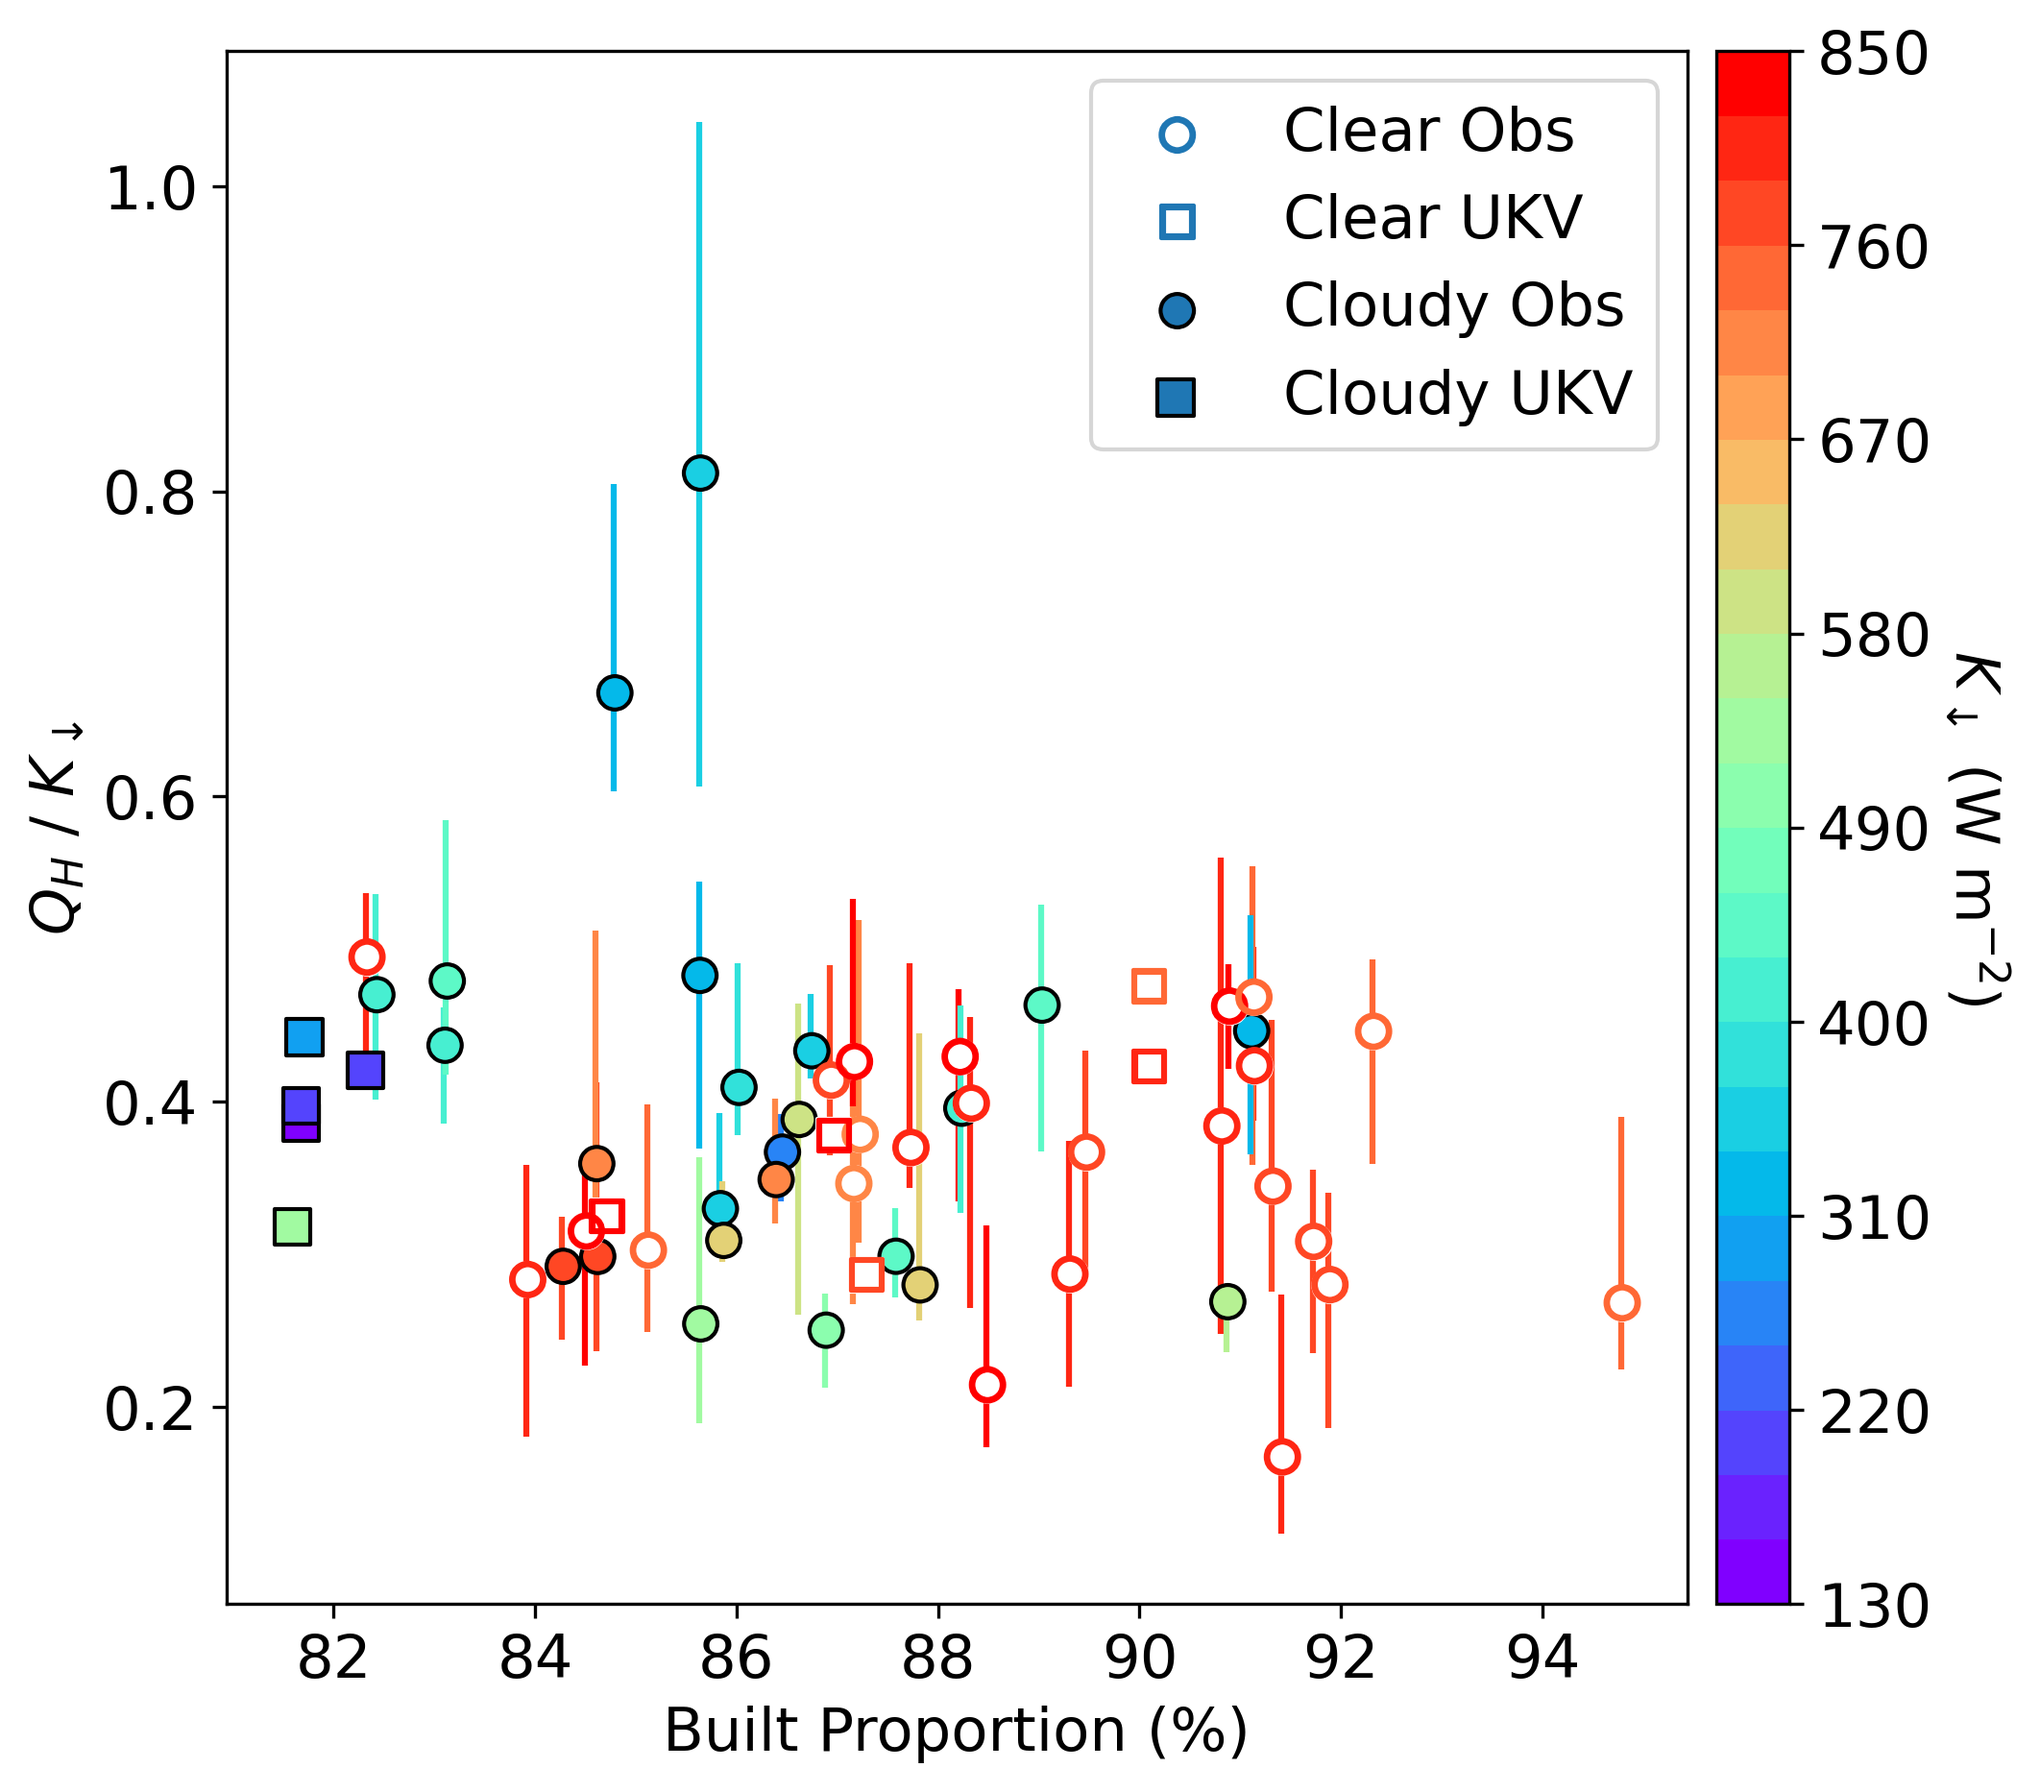
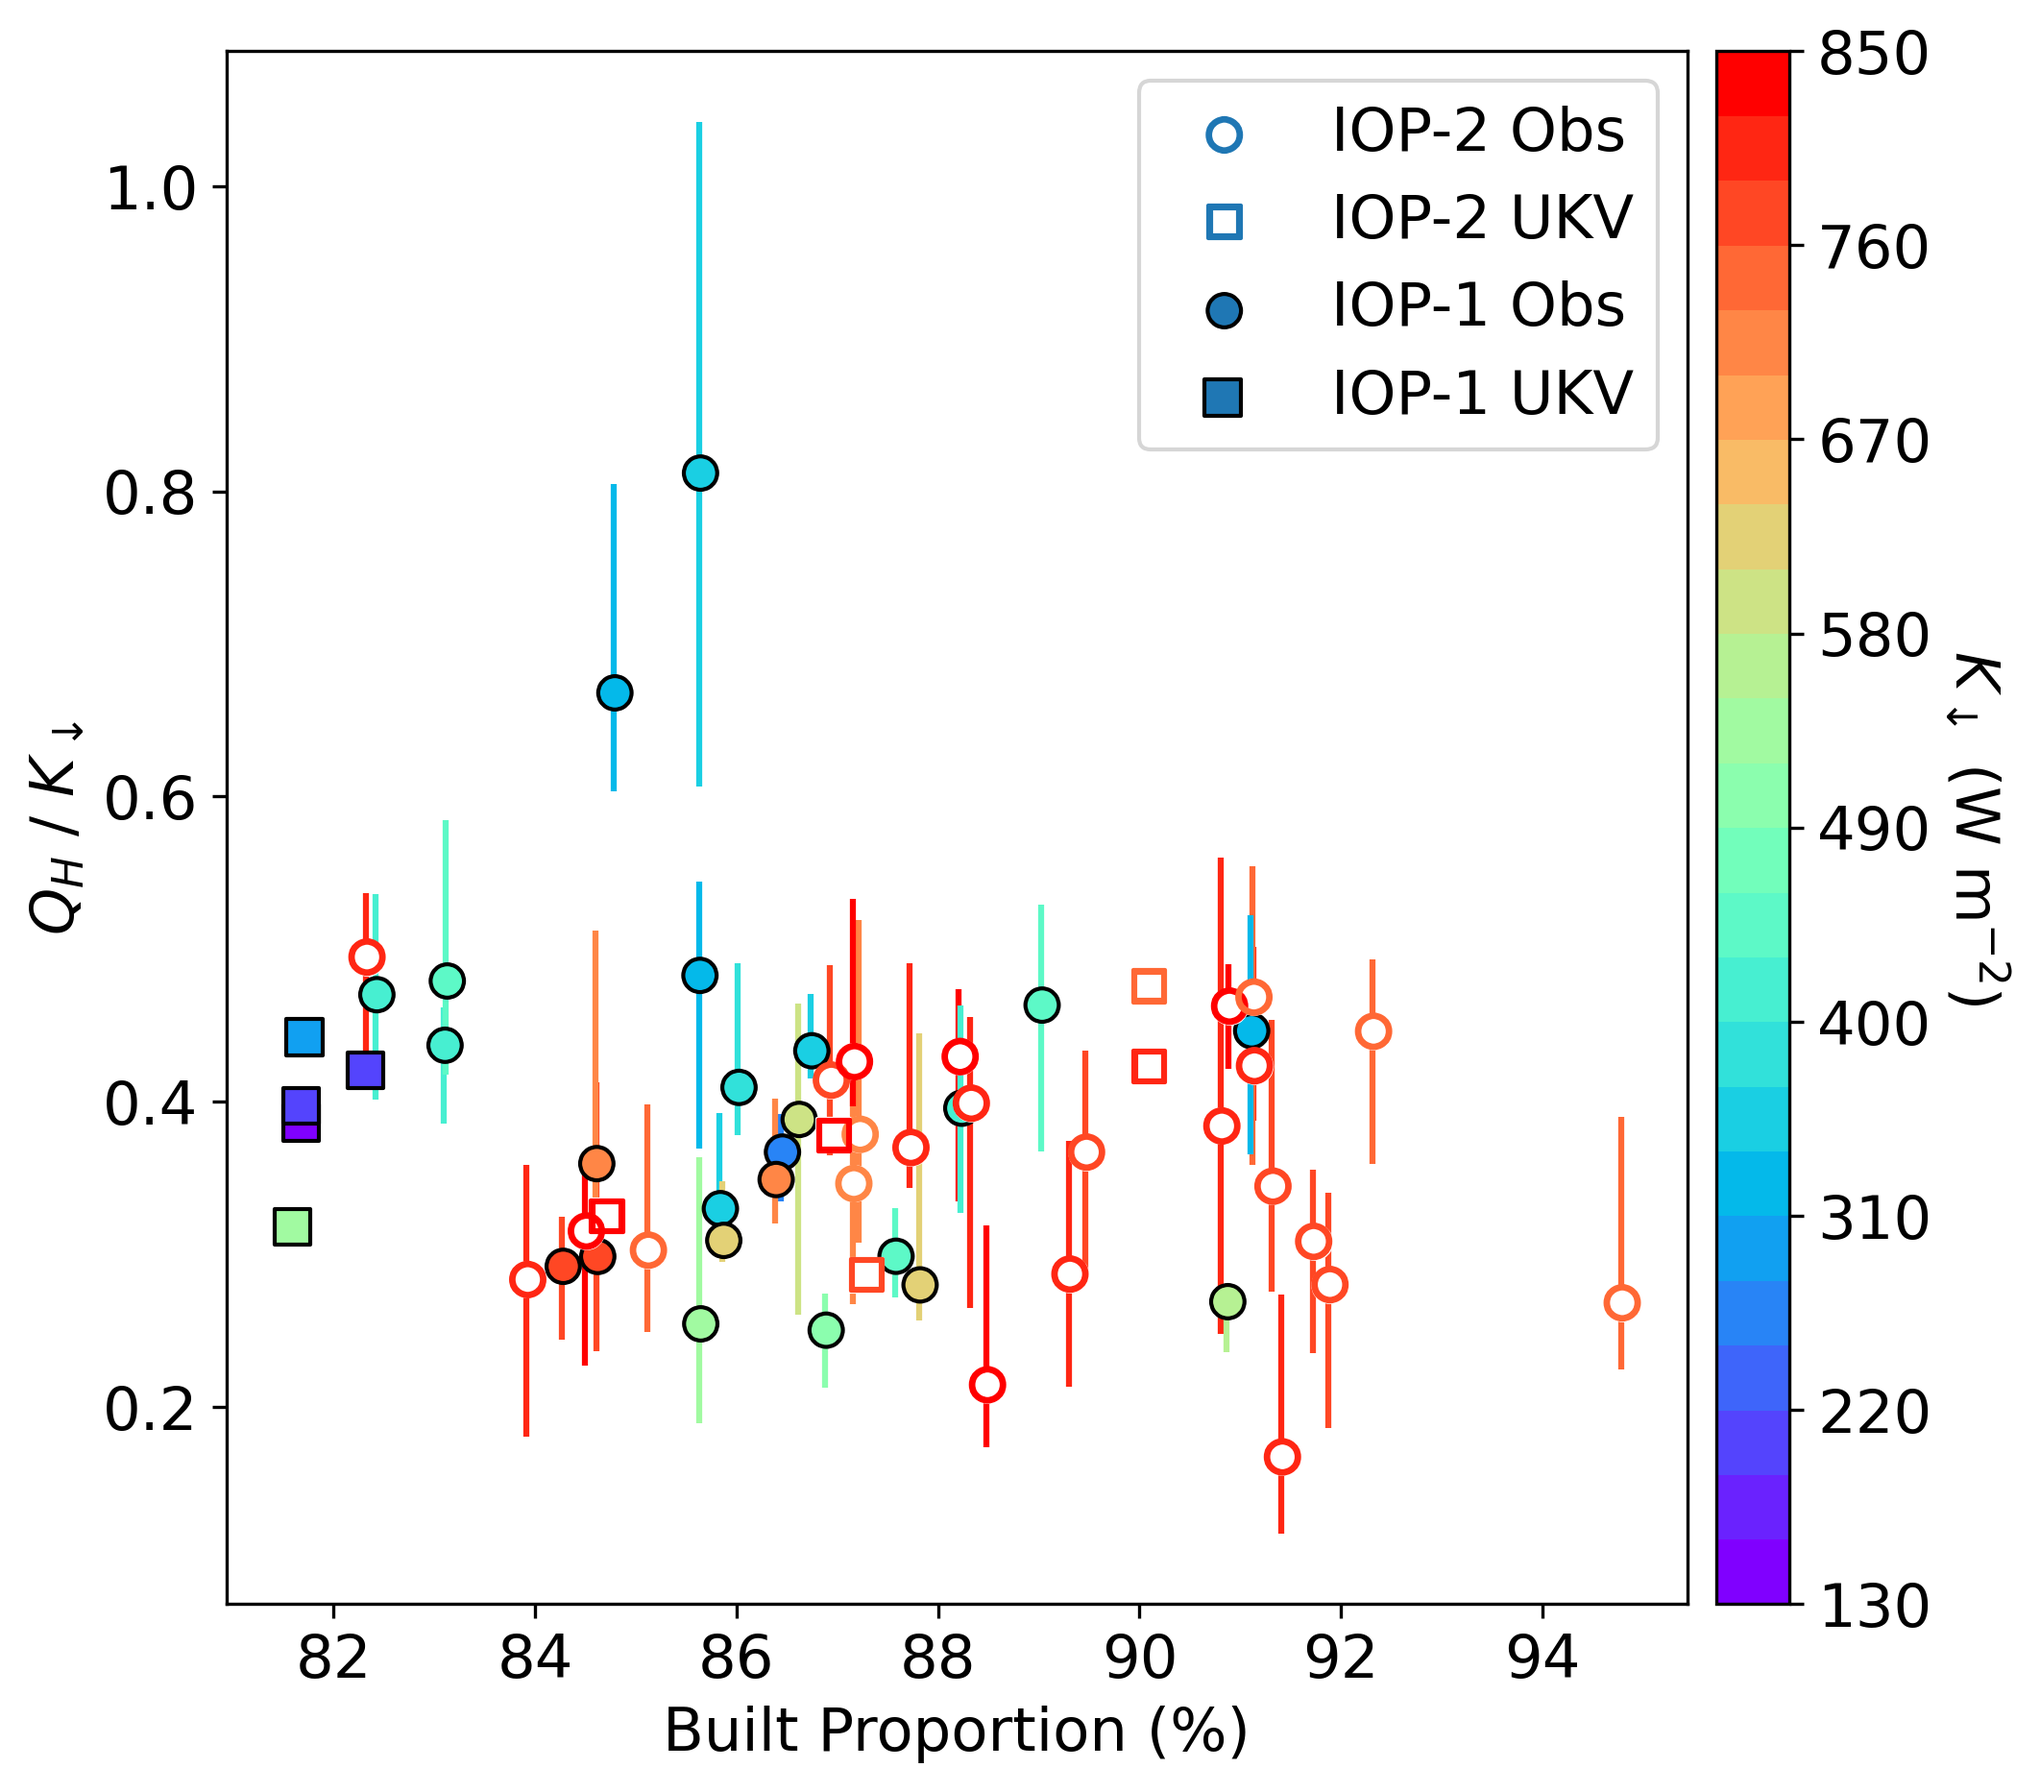
update names

Changed region(s): [[0.5282, 0.0311, 0.8079, 0.2487]]

diff --git a/scint_plots/built_fraction/built_fraction_funs.py b/scint_plots/built_fraction/built_fraction_funs.py
@@ -255,14 +255,14 @@ def plot_function_built_fraction(output_dict):
                                      c='white', marker="$\u25cf$", s=80, zorder=2)
 
             s = ax.scatter(x_vals_select, y_vals_select,
-                           c=mean_kdown_select, marker="$\u25cb$", cmap=cmap, norm=norm, label='Clear Obs', s=80,
+                           c=mean_kdown_select, marker="$\u25cb$", cmap=cmap, norm=norm, label='IOP-2 Obs', s=80,
                            zorder=3)
 
             white_block_UKV = ax.scatter(mod_select.Urban * 100, mod_select.QH / mod_select.kdown,
                                          c='white', marker="$\u25A0$", s=80, zorder=2)
 
             ax.scatter(mod_select.Urban * 100, mod_select.QH / mod_select.kdown,
-                       c=mod_select.kdown, marker="$\u25A1$", cmap=cmap, norm=norm, label='Clear UKV', s=80,
+                       c=mod_select.kdown, marker="$\u25A1$", cmap=cmap, norm=norm, label='IOP-2 UKV', s=80,
                        zorder=3)
 
 
@@ -270,10 +270,10 @@ def plot_function_built_fraction(output_dict):
             assert obs_df.index[0].strftime('%j') == '123'
 
             s = ax.scatter(x_vals_select, y_vals_select, c=mean_kdown_select, marker='$\u25cf$', cmap=cmap, norm=norm,
-                           edgecolor='k', label='Cloudy Obs', s=80)
+                           edgecolor='k', label='IOP-1 Obs', s=80)
 
             ax.scatter(mod_select.Urban * 100, mod_select.QH / mod_select.kdown, c=mod_select.kdown, marker='s',
-                       cmap=cmap, norm=norm, edgecolor='k', label='Cloudy UKV', s=80)
+                       cmap=cmap, norm=norm, edgecolor='k', label='IOP-1 UKV', s=80)
 
     plt.legend()
 
